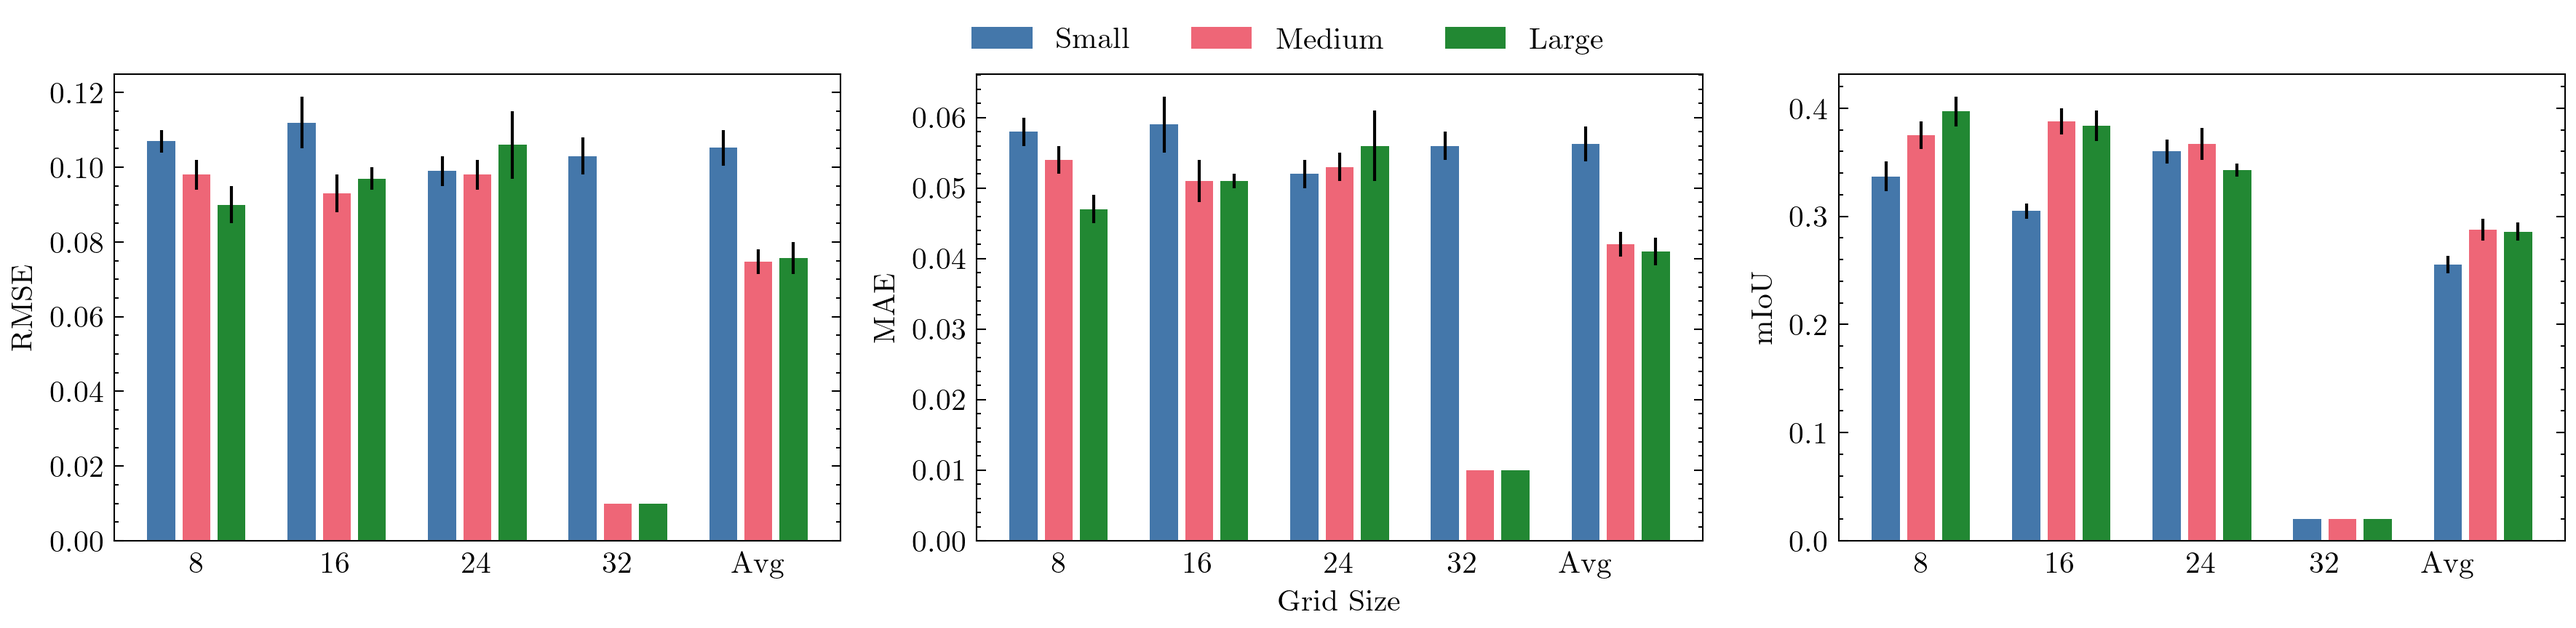
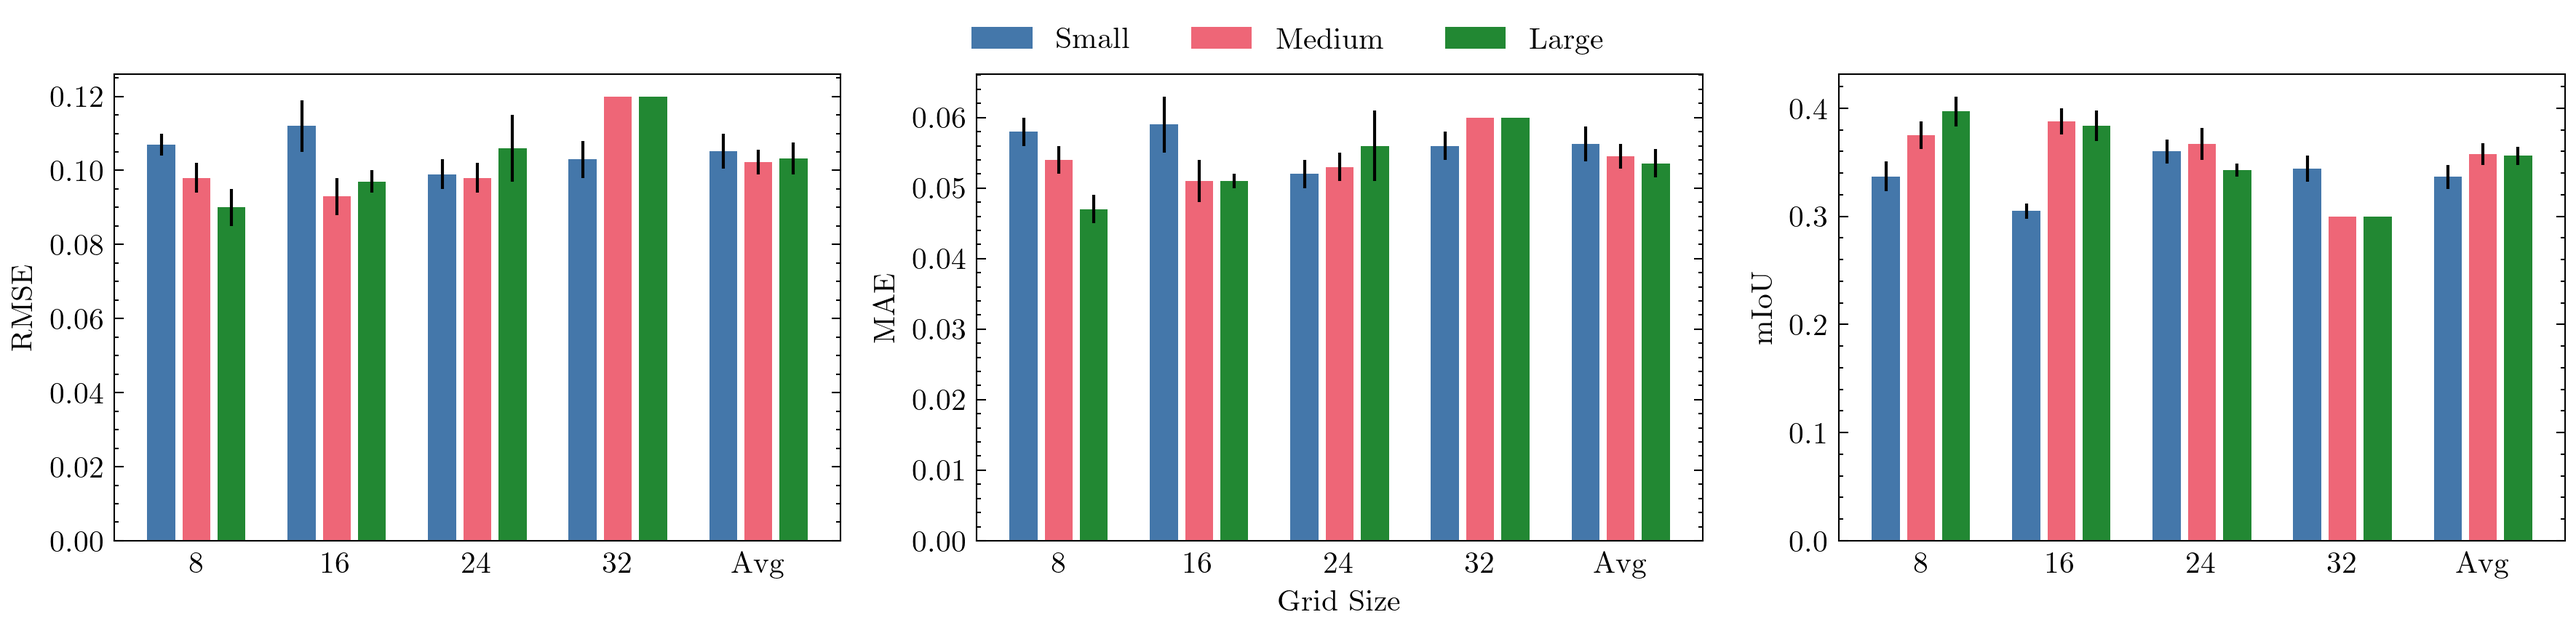
Added true results for 32 small and fixed small plotting issue.

diff --git a/scripts/produce_summary_plots.py b/scripts/produce_summary_plots.py
@@ -178,14 +178,14 @@ class ResultsPlotter:
         axes[0].set_ylabel('RMSE')
 
         axes[1].bar(xs, mae_ys, color=cs, yerr=mae_sems)
-        axes[1].set_xticks([1, 5, 9, 12.5, 16])
+        axes[1].set_xticks([1, 5, 9, 13, 17])
         axes[1].set_xticklabels(['8', '16', '24', '32', 'Avg'])
         axes[1].set_xlabel('Grid Size')
         axes[1].tick_params(axis='x', which='both', bottom=False, top=False, labelbottom=True)
         axes[1].set_ylabel('MAE')
 
         axes[2].bar(xs, miou_ys, color=cs, yerr=miou_sems)
-        axes[2].set_xticks([1, 5, 9, 12.5, 16])
+        axes[2].set_xticks([1, 5, 9, 13, 17])
         axes[2].set_xticklabels(['8', '16', '24', '32', 'Avg'])
         axes[2].tick_params(axis='x', which='both', bottom=False, top=False, labelbottom=True)
         axes[2].set_ylabel('mIoU')
